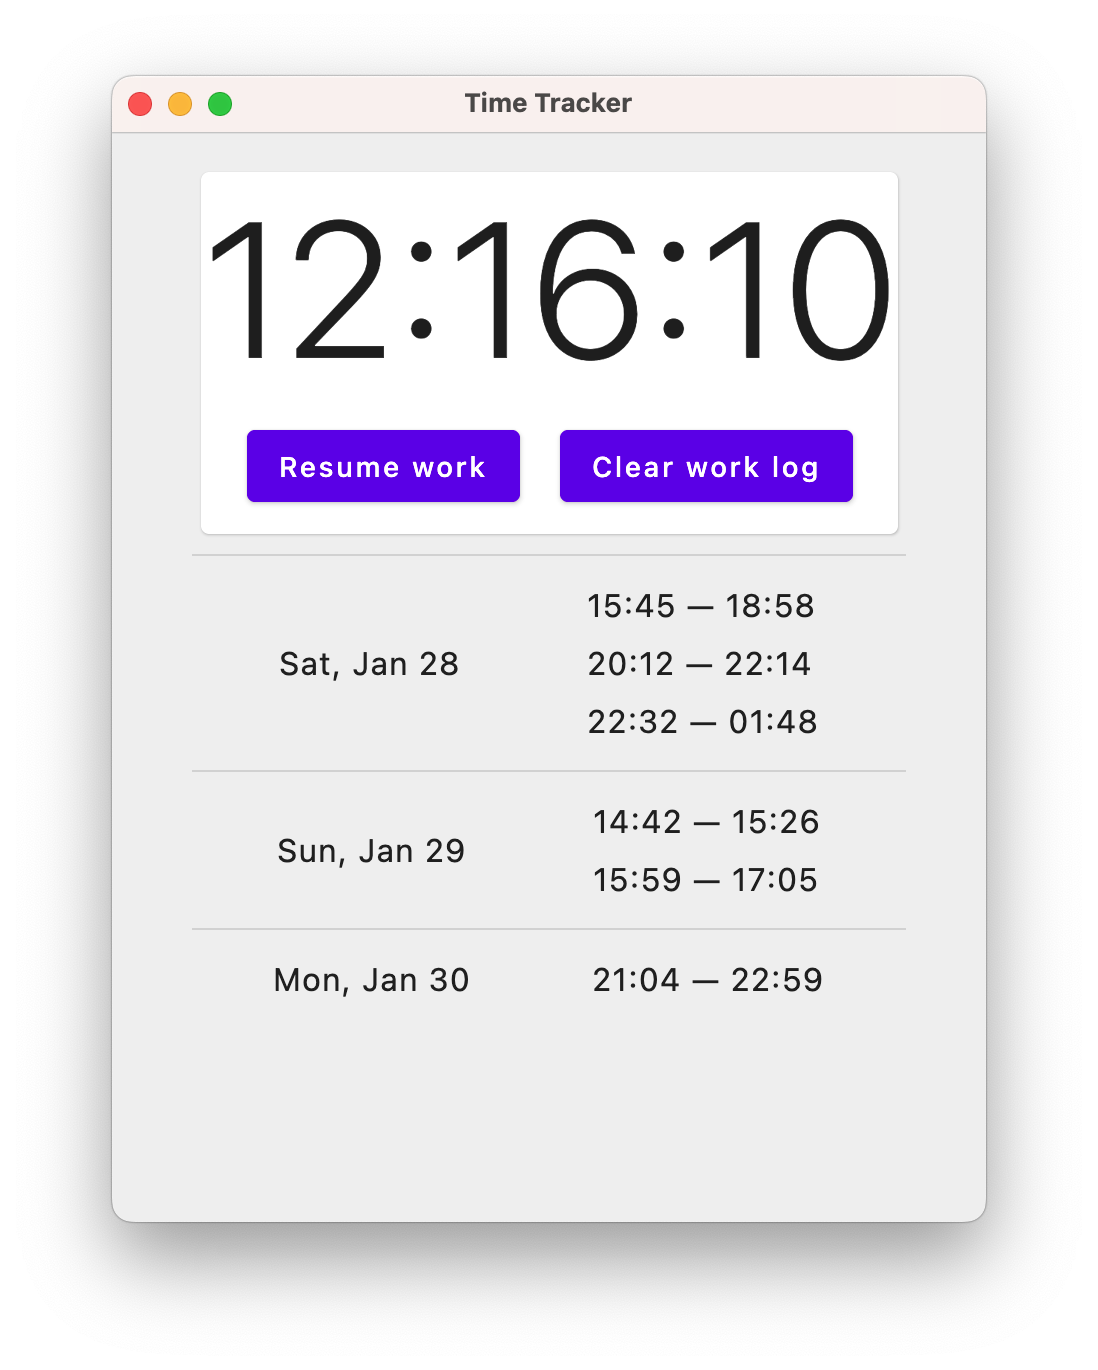
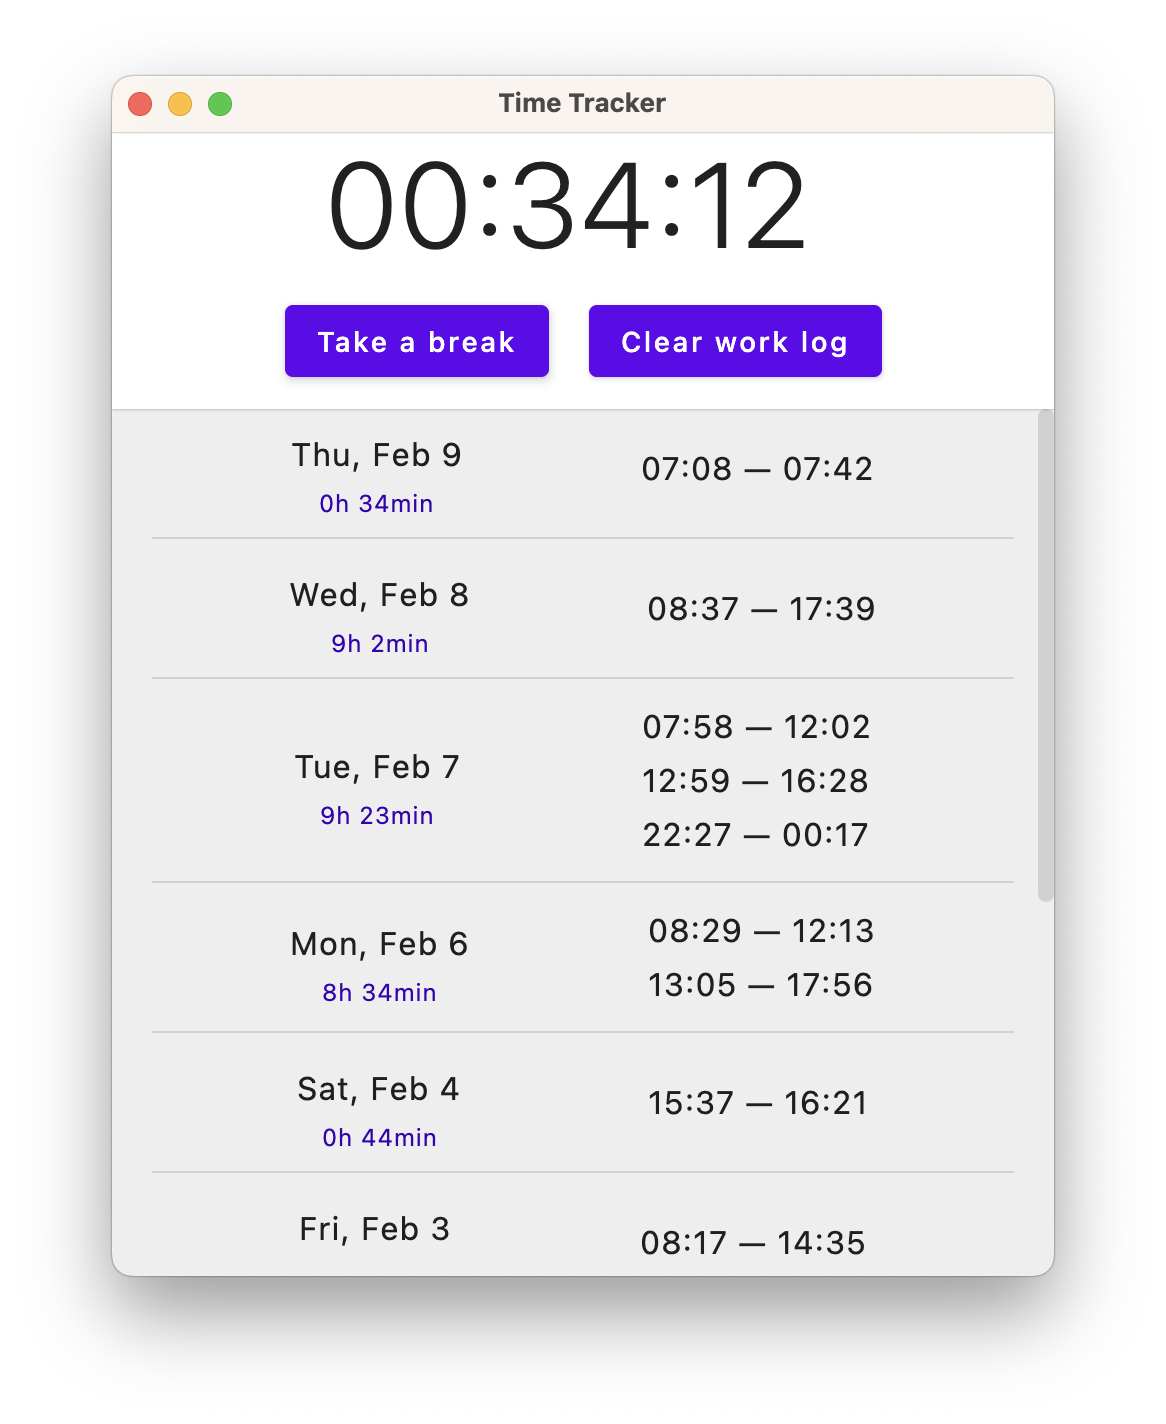
Update Readme + Screenshot

diff --git a/Readme.md b/Readme.md
@@ -9,8 +9,8 @@ you'd expect from the name: an app for logging work time.
 - [x] Basic UI and time keeping functionality
 - [x] Persist state to disk, starting with JSON serialization
 - [x] Unit test coverage on business logic
+- [x] Improve UI: better layout, scrolling, duration summaries
 - [ ] Basic CI using GitHub Actions
-- [ ] Improve UI: better layout, scrolling, duration summaries
 - [ ] Ability to edit work logs retroactively
 - [ ] Switch to SQLite database for the backing store
 - [ ] Additional multiplatform targets: native, JS?
